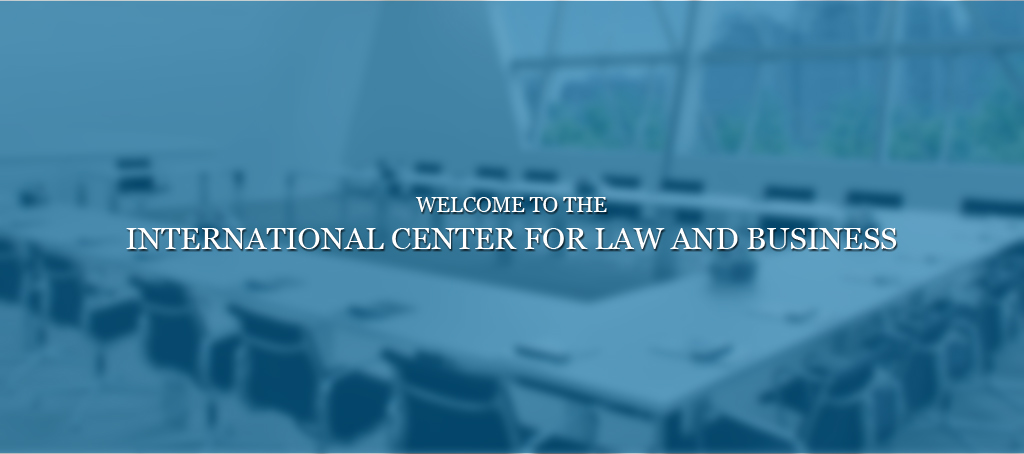
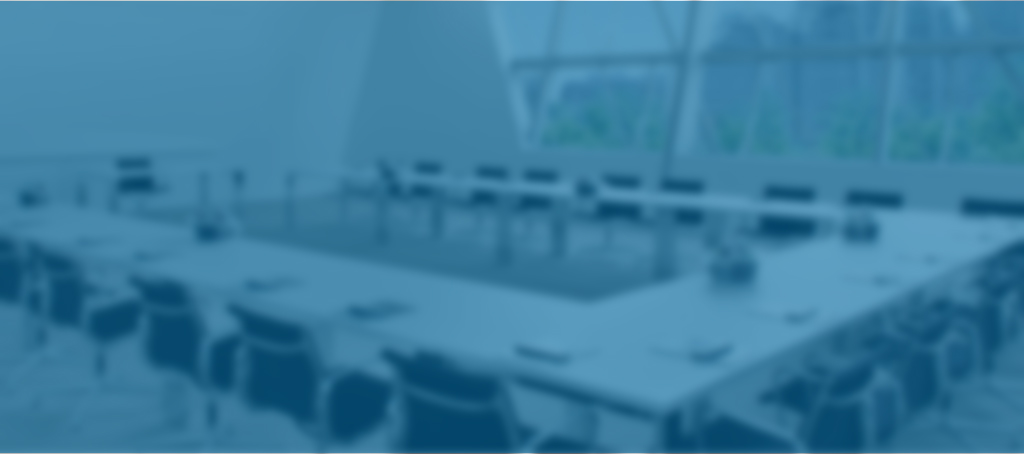
Width 100%

Changed region(s): [[0.125, 0.4317, 0.875, 0.5551]]

diff --git a/iclb/index.html b/iclb/index.html
@@ -13,7 +13,7 @@
 	<!-- Logo and navigation //-->
     <header>
     <div id="logo_navigation" class="group">    
-    <span id="logo_section"><a href="#"><img src="img/iclb_logo2.png"></a></span>
+    <span id="logo_section"><a href="/"><img src="img/iclb_logo2.png"></a></span>
     
     <ul id="nav_menu" class="group">
     <li><a href="#">Home</a></li>
@@ -25,7 +25,7 @@
     </div>
     </header>
     
-    <div id="slider_section">
+    <div id="slider_section"><img src="img/welcome_bg.jpg" width="100%" />
     </div>
     
     <div id="content_section">

diff --git a/iclb/style.css b/iclb/style.css
@@ -103,9 +103,7 @@ margin:0px auto 0px auto;
 	}
 	
 	#slider_section {
-	width:1024px;
-	height:454px;
-	background:url('img/welcome_bg.jpg') no-repeat;
+	width:100%;
 	box-shadow:inset 0px 1px 1px #000000;
 	}	
 	
